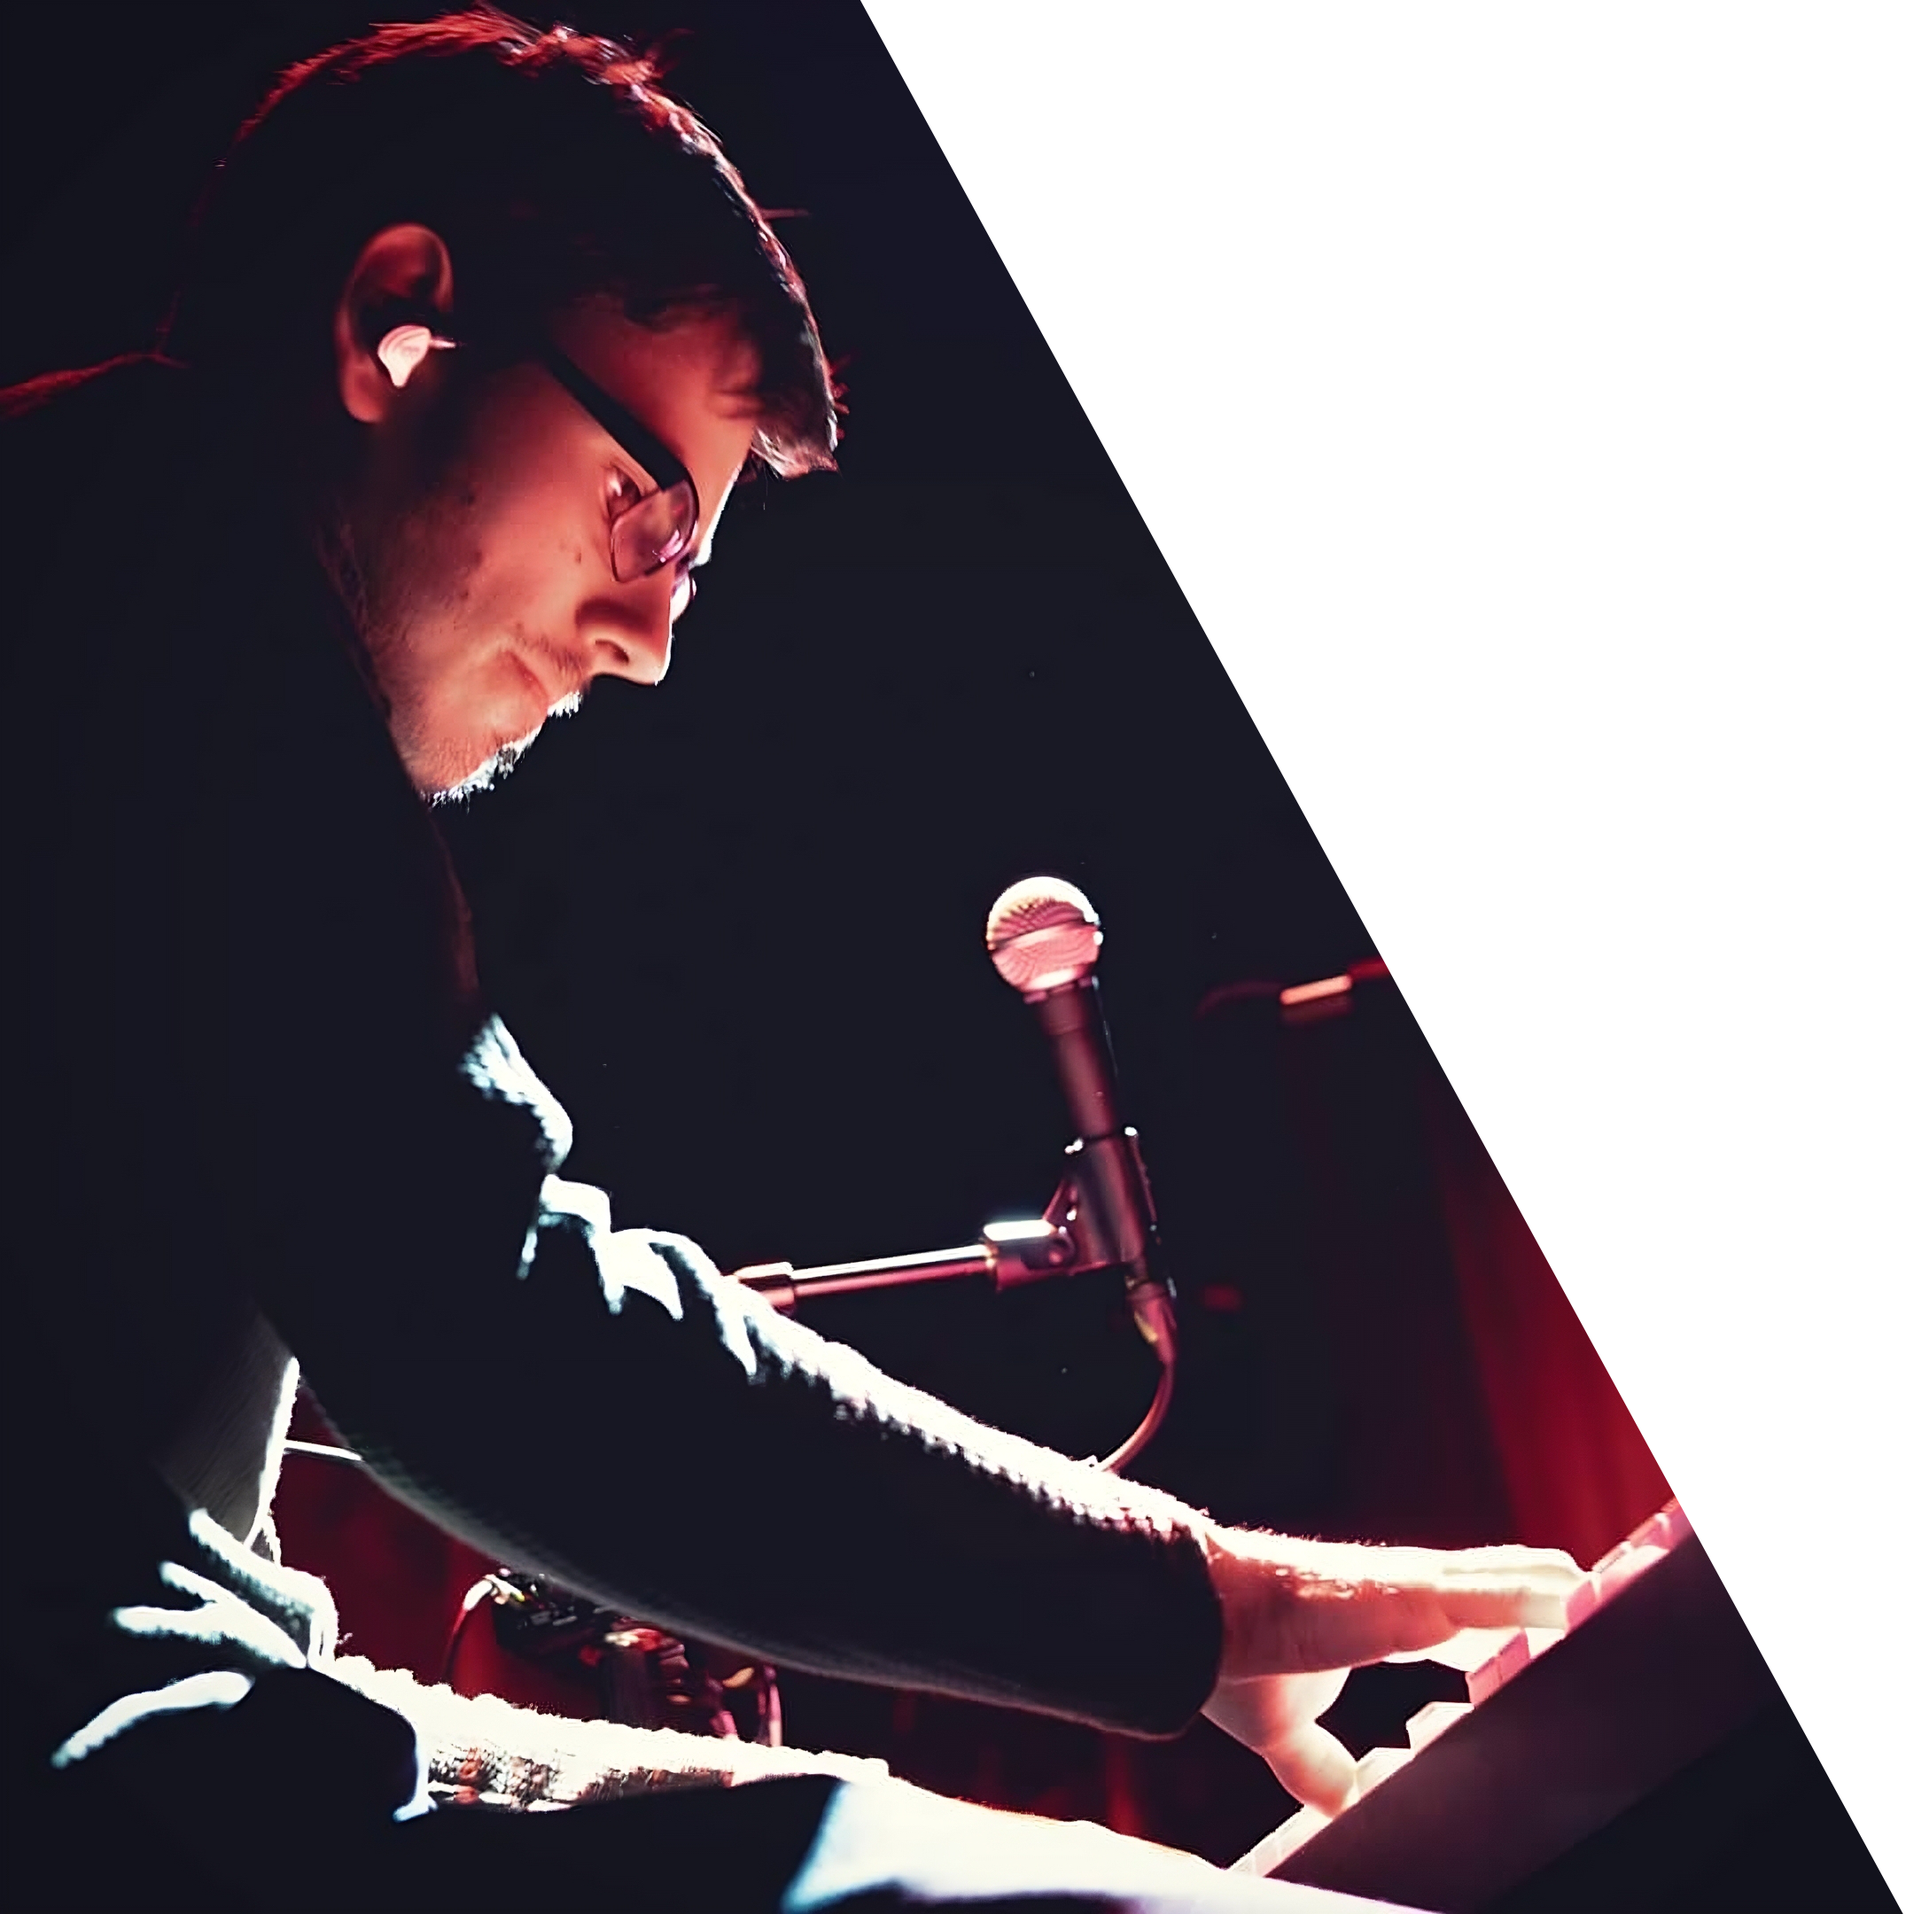
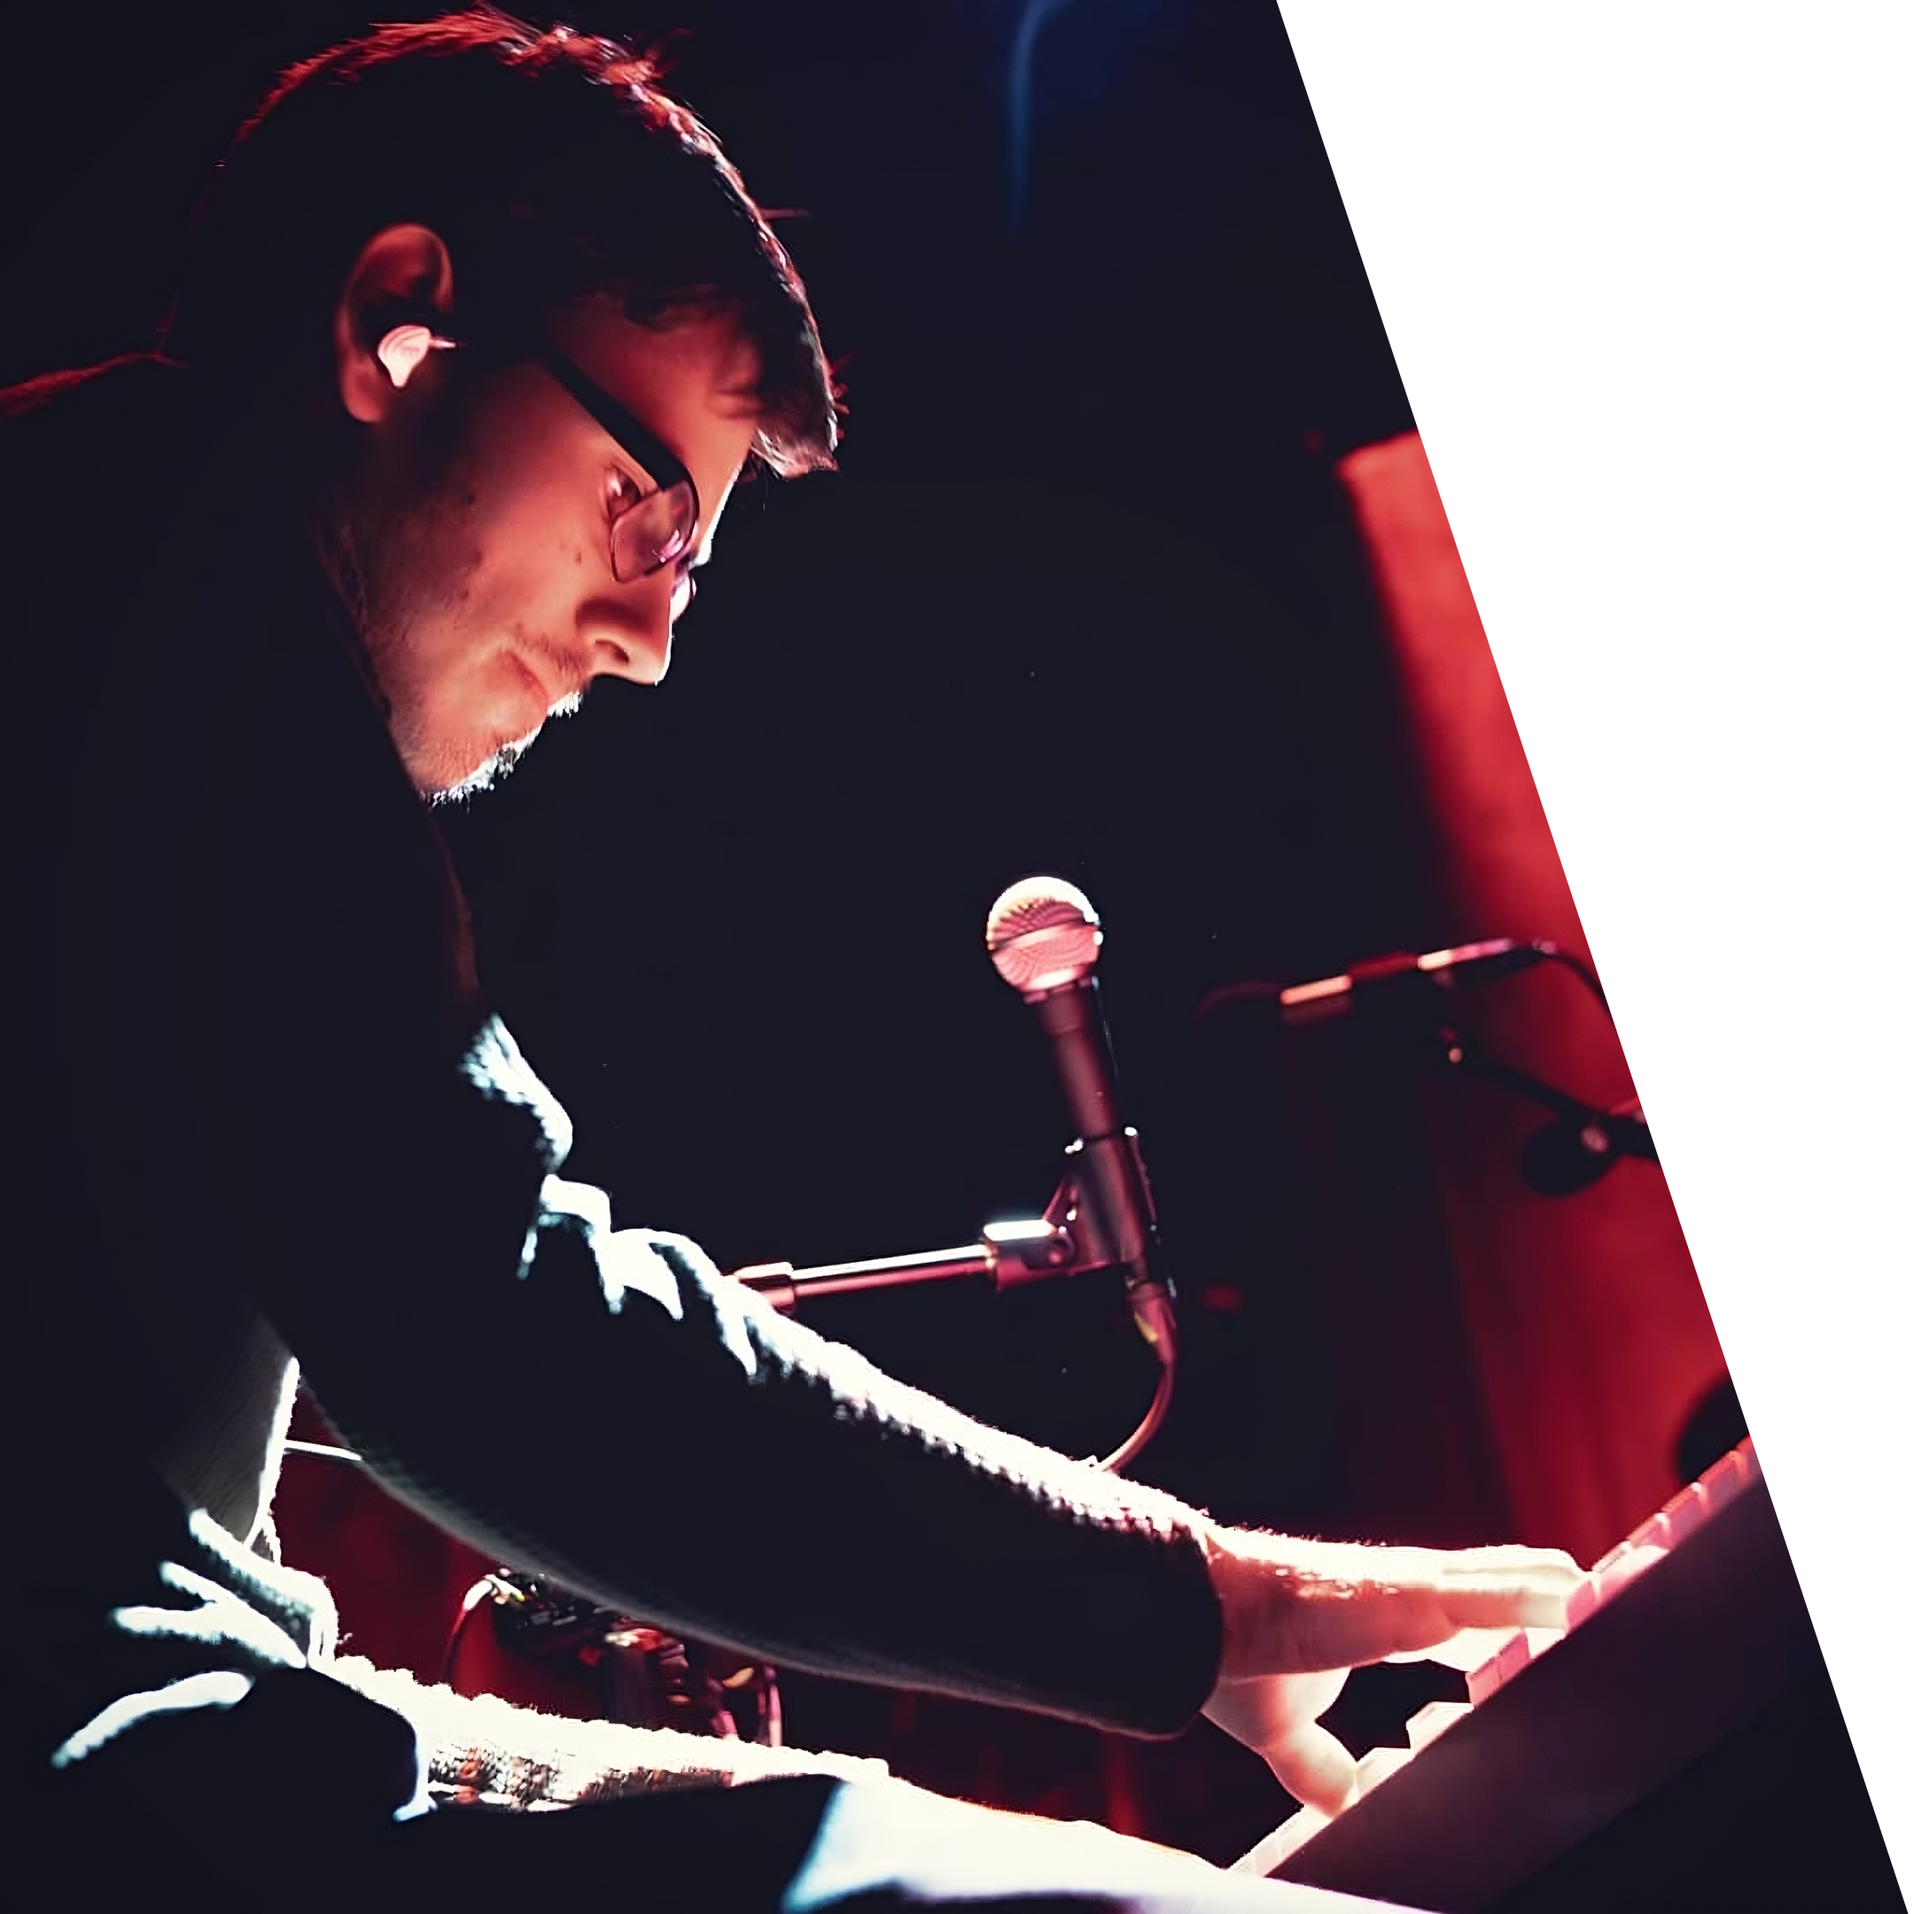
-

Changed region(s): [[0.4343, 0.0, 0.9926, 0.9926], [0.9926, 0.9926, 1.0, 1.0]]

diff --git a/assets/css/main.css b/assets/css/main.css
@@ -21,10 +21,11 @@
 	background: url('images/bg.png') no-repeat center center fixed;
 	background-size: cover; /* Ensure the background image covers the entire area */
 	z-index: -2; /* Keep it behind everything */
-  }
-  
+    filter: brightness(85%);
+}
+
   /* Overlay (PNG image) */
-  .overlayMain {
+    .overlayMain {
 	position: fixed; /* Fix to viewport for consistent alignment */
 	top: 0;
 	left: 0;
@@ -33,8 +34,8 @@
 	background: url('images/PetterKeys1.png') no-repeat top left; /* Align to the top-left of the page */
 	background-size: contain; /* Scale the overlay image to fit from top to bottom */
 	z-index: -1; /* Layer it above the background */
-  }  
-  
+	}  
+
 
 html, body, div, span, applet, object,
 iframe, h1, h2, h3, h4, h5, h6, p, blockquote,
@@ -1983,7 +1984,8 @@ input, select, textarea {
 		-webkit-transition: min-height 0.5s ease-in-out, max-height 0.5s ease-in-out;
 		-ms-transition: min-height 0.5s ease-in-out, max-height 0.5s ease-in-out;
 		transition: min-height 0.5s ease-in-out, max-height 0.5s ease-in-out;
-		left: 50%;
+		right: -40%;
+		margin-bottom: 80px;
 	}
 
 		#main > .panel {
@@ -1991,9 +1993,9 @@ input, select, textarea {
 			-webkit-transition: opacity 0.25s ease-in-out;
 			-ms-transition: opacity 0.25s ease-in-out;
 			transition: opacity 0.25s ease-in-out;
-			margin-bottom: 0;
+			margin-bottom: 100;
 			position: relative;
-			padding: 3.5em 2.5em 2.5em 2.5em;
+			padding: 5.5em 2.5em 2.5em 2.5em;
 			width: 100%;
 		}
 
@@ -2026,7 +2028,7 @@ input, select, textarea {
 
 			#main > .panel.intro {
 				padding: 0;
-				height: 20em;
+				height: 10em;
 				display: -moz-flex;
 				display: -webkit-flex;
 				display: -ms-flex;
@@ -2039,7 +2041,7 @@ input, select, textarea {
 				-webkit-align-items: center;
 				-ms-align-items: center;
 				align-items: center;
-				left: 5%;
+				right: -10%;
 			}
 
 				#main > .panel.intro .pic {
@@ -2141,6 +2143,7 @@ input, select, textarea {
 					#main > .panel.intro header h1 {
 						line-height: 1.25em;
 						margin-bottom: 0;
+						font-size: 45px;
 					}
 
 					#main > .panel.intro header p {
@@ -2196,7 +2199,7 @@ input, select, textarea {
 		padding: 2em 0 0 0;
 		font-size: 0.75em;
 		bottom: 0;
-		right: 25%;
+		right: 20%;
 		position: fixed;
 	}
 

diff --git a/index.html b/index.html
@@ -9,9 +9,8 @@
 	</head>
 	<body class="is-preload">
 		
-		<div class="backgroundMain">
-			<div class="overlayMain"></div>
-		</div>
+		<div class="backgroundMain"></div>
+		<div class="overlayMain"></div>
 		<!-- Wrapper-->
 			<div id="wrapper">
 
